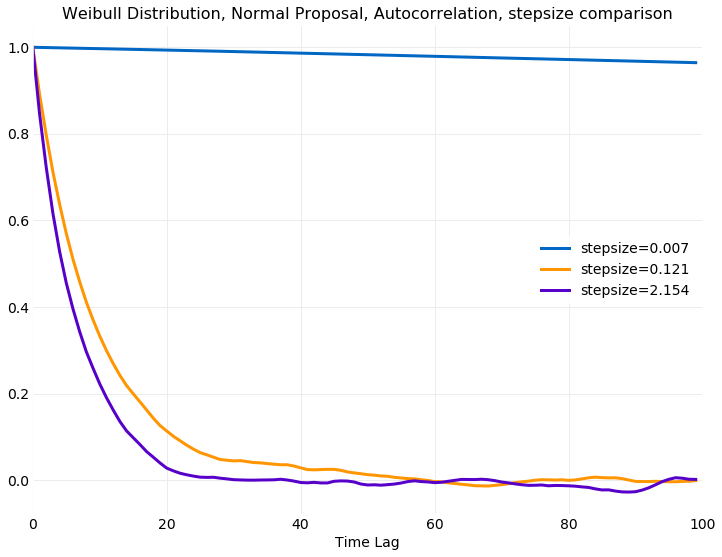
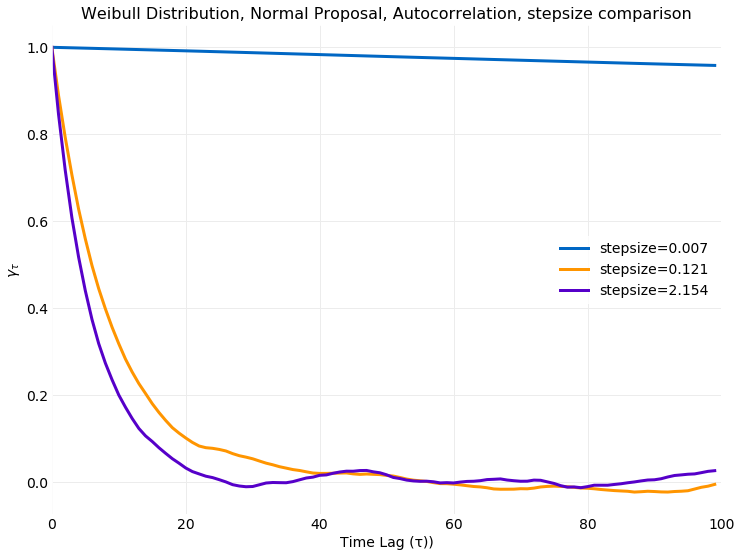
more work on simulation section of MHS

diff --git a/_site/2018/09/05/metropolis_hastings_sampling.html b/_site/2018/09/05/metropolis_hastings_sampling.html
@@ -11,14 +11,14 @@
 <meta property="og:locale" content="en_US" />
 <meta name="description" content="Metropolis Hastings Sampling is a method for obtaining samples for known target probability distribution using samples from some other proposal distribution. It is similar to Rejection Sampling in providing a criteria for acceptance of a proposal sample as a target sample but instead of discarding the samples that do not meet the acceptance criteria the sample from the previous time step is replicated. Another difference is that Metropolis Hastings samples are modeled as a Markov Chain where the target distribution is the Markov Chain Equilibrium Distribution. As a consequence the previous sample is used as part of the acceptance criteria when generating the next sample. It will be seen this has the advantage of permitting dynamical adjustment of some proposal distribution parameters as each sample is generated, which in effect eliminates parameters as model inputs. This is is an improvement over Rejection Sampling, where it was previously shown that slight variations in proposal distribution parameters can significantly impact performance. A downside of the Markov Chain representation is that autocorrelation can develop in the samples which is not the case in Rejection Sampling." />
 <meta property="og:description" content="Metropolis Hastings Sampling is a method for obtaining samples for known target probability distribution using samples from some other proposal distribution. It is similar to Rejection Sampling in providing a criteria for acceptance of a proposal sample as a target sample but instead of discarding the samples that do not meet the acceptance criteria the sample from the previous time step is replicated. Another difference is that Metropolis Hastings samples are modeled as a Markov Chain where the target distribution is the Markov Chain Equilibrium Distribution. As a consequence the previous sample is used as part of the acceptance criteria when generating the next sample. It will be seen this has the advantage of permitting dynamical adjustment of some proposal distribution parameters as each sample is generated, which in effect eliminates parameters as model inputs. This is is an improvement over Rejection Sampling, where it was previously shown that slight variations in proposal distribution parameters can significantly impact performance. A downside of the Markov Chain representation is that autocorrelation can develop in the samples which is not the case in Rejection Sampling." />
-<link rel="canonical" href="http://localhost:4000/2018/09/04/metropolis_hastings_sampling.html" />
-<meta property="og:url" content="http://localhost:4000/2018/09/04/metropolis_hastings_sampling.html" />
+<link rel="canonical" href="http://localhost:4000/2018/09/05/metropolis_hastings_sampling.html" />
+<meta property="og:url" content="http://localhost:4000/2018/09/05/metropolis_hastings_sampling.html" />
 <meta property="og:site_name" content="gly.fish" />
 <meta property="og:image" content="http://localhost:4000/assets/posts/metropolis_hastings_sampling/norma_proposal_acceptance.png" />
 <meta property="og:type" content="article" />
-<meta property="article:published_time" content="2018-09-04T22:29:58-07:00" />
+<meta property="article:published_time" content="2018-09-05T07:52:03-07:00" />
 <script type="application/ld+json">
-{"description":"Metropolis Hastings Sampling is a method for obtaining samples for known target probability distribution using samples from some other proposal distribution. It is similar to Rejection Sampling in providing a criteria for acceptance of a proposal sample as a target sample but instead of discarding the samples that do not meet the acceptance criteria the sample from the previous time step is replicated. Another difference is that Metropolis Hastings samples are modeled as a Markov Chain where the target distribution is the Markov Chain Equilibrium Distribution. As a consequence the previous sample is used as part of the acceptance criteria when generating the next sample. It will be seen this has the advantage of permitting dynamical adjustment of some proposal distribution parameters as each sample is generated, which in effect eliminates parameters as model inputs. This is is an improvement over Rejection Sampling, where it was previously shown that slight variations in proposal distribution parameters can significantly impact performance. A downside of the Markov Chain representation is that autocorrelation can develop in the samples which is not the case in Rejection Sampling.","author":{"@type":"Person","name":"Troy Stribling"},"@type":"BlogPosting","url":"http://localhost:4000/2018/09/04/metropolis_hastings_sampling.html","image":"http://localhost:4000/assets/posts/metropolis_hastings_sampling/norma_proposal_acceptance.png","headline":"Metropolis Hastings Sampling","dateModified":"2018-09-04T22:29:58-07:00","datePublished":"2018-09-04T22:29:58-07:00","mainEntityOfPage":{"@type":"WebPage","@id":"http://localhost:4000/2018/09/04/metropolis_hastings_sampling.html"},"@context":"http://schema.org"}</script>
+{"description":"Metropolis Hastings Sampling is a method for obtaining samples for known target probability distribution using samples from some other proposal distribution. It is similar to Rejection Sampling in providing a criteria for acceptance of a proposal sample as a target sample but instead of discarding the samples that do not meet the acceptance criteria the sample from the previous time step is replicated. Another difference is that Metropolis Hastings samples are modeled as a Markov Chain where the target distribution is the Markov Chain Equilibrium Distribution. As a consequence the previous sample is used as part of the acceptance criteria when generating the next sample. It will be seen this has the advantage of permitting dynamical adjustment of some proposal distribution parameters as each sample is generated, which in effect eliminates parameters as model inputs. This is is an improvement over Rejection Sampling, where it was previously shown that slight variations in proposal distribution parameters can significantly impact performance. A downside of the Markov Chain representation is that autocorrelation can develop in the samples which is not the case in Rejection Sampling.","author":{"@type":"Person","name":"Troy Stribling"},"@type":"BlogPosting","url":"http://localhost:4000/2018/09/05/metropolis_hastings_sampling.html","image":"http://localhost:4000/assets/posts/metropolis_hastings_sampling/norma_proposal_acceptance.png","headline":"Metropolis Hastings Sampling","dateModified":"2018-09-05T07:52:03-07:00","datePublished":"2018-09-05T07:52:03-07:00","mainEntityOfPage":{"@type":"WebPage","@id":"http://localhost:4000/2018/09/05/metropolis_hastings_sampling.html"},"@context":"http://schema.org"}</script>
 <!-- End Jekyll SEO tag -->
 <link rel="stylesheet" href="/assets/main.css">
   <link rel="apple-touch-icon" sizes="180x180" href="/assets/favicon/apple-touch-icon.png">
@@ -134,7 +134,7 @@
   <header class="post-header">
     <h1 class="post-title p-name" itemprop="name headline">Metropolis Hastings Sampling</h1>
     <p class="post-meta">
-      <time class="dt-published" datetime="2018-09-04T22:29:58-07:00" itemprop="datePublished">Sep 4, 2018
+      <time class="dt-published" datetime="2018-09-05T07:52:03-07:00" itemprop="datePublished">Sep 5, 2018
       </time>• <span itemprop="author" itemscope itemtype="http://schema.org/Person">
             <span class="p-author h-card" itemprop="name">Troy Stribling</span>
           </span></p>
@@ -779,14 +779,21 @@ other two simulations. Both are showing convergence after <span class="katex"><s
 <p><img class="post-image" src="/assets/posts/metropolis_hastings_sampling/normal_proposal_mean_convergence_stepsize_comparison.png" /></p>
 
 <p>A consequence of using a Markov Chain to generate samples is that autocorrelation is built into the model.
-This is not desirable in general since independent and identically distributed samples are usually
-desired. It follows that there is a preference rapid decorrelation of samples. The following plot
-shows that autocorrelation coefficient for the three values of <code class="highlighter-rouge">stepsize</code> previously discussed.
-The autocorrelation coefficient of a time series, <span class="katex"><span class="katex-mathml"><math><semantics><mrow><mi>f</mi></mrow><annotation encoding="application/x-tex">f</annotation></semantics></math></span><span class="katex-html" aria-hidden="true"><span class="strut" style="height:0.69444em;"></span><span class="strut bottom" style="height:0.8888799999999999em;vertical-align:-0.19444em;"></span><span class="base"><span class="mord mathit" style="margin-right:0.10764em;">f</span></span></span></span>, is defined by,</p>
+This is considered an undesirable artifact since in general independent and identically distributed samples
+are desired. It follows that there is a preference for rapid decorrelation of samples. The following plot
+shows the autocorrelation coefficient for the three values of <code class="highlighter-rouge">stepsize</code> previously discussed.
+The autocorrelation coefficient of a time series, <span class="katex"><span class="katex-mathml"><math><semantics><mrow><mi>f</mi></mrow><annotation encoding="application/x-tex">f</annotation></semantics></math></span><span class="katex-html" aria-hidden="true"><span class="strut" style="height:0.69444em;"></span><span class="strut bottom" style="height:0.8888799999999999em;vertical-align:-0.19444em;"></span><span class="base"><span class="mord mathit" style="margin-right:0.10764em;">f</span></span></span></span>, provides a measure
+<em>similarity</em> or <em>dependence</em> of the series past and future and is defined by,</p>
 
-<p><span class="katex-display"><span class="katex"><span class="katex-mathml"><math><semantics><mrow><msub><mi>γ</mi><mi>τ</mi></msub><mo>=</mo><mfrac><mrow><mn>1</mn></mrow><mrow><msubsup><mi>σ</mi><mi>f</mi><mn>2</mn></msubsup></mrow></mfrac><munderover><mo>∑</mo><mrow><mi>n</mi><mo>=</mo><mn>0</mn></mrow><mi>t</mi></munderover><mrow><mo fence="true">(</mo><msub><mi>f</mi><mi>n</mi></msub><mo>−</mo><msub><mi>μ</mi><mi>f</mi></msub><mo fence="true">)</mo></mrow><mrow><mo fence="true">(</mo><msub><mi>f</mi><mrow><mi>n</mi><mo>+</mo><mi>τ</mi></mrow></msub><mo>−</mo><msub><mi>μ</mi><mi>f</mi></msub><mo fence="true">)</mo></mrow><mtext> </mtext><mtext> </mtext><mtext> </mtext><mtext> </mtext><mtext> </mtext><mo>(</mo><mn>1</mn><mn>6</mn><mo>)</mo><mo separator="true">,</mo></mrow><annotation encoding="application/x-tex">
-\gamma_{\tau} = \frac{1}{\sigma_{f}^2}\sum_{n=0}^{t} \left(f_{n} - \mu_f \right) \left(f_{n+\tau} - \mu_f\right)\ \ \ \ \ (16),
-</annotation></semantics></math></span><span class="katex-html" aria-hidden="true"><span class="strut" style="height:1.7805610000000003em;"></span><span class="strut bottom" style="height:3.047674em;vertical-align:-1.267113em;"></span><span class="base"><span class="mord"><span class="mord mathit" style="margin-right:0.05556em;">γ</span><span class="msupsub"><span class="vlist-t vlist-t2"><span class="vlist-r"><span class="vlist" style="height:0.151392em;"><span style="top:-2.5500000000000003em;margin-left:-0.05556em;margin-right:0.05em;"><span class="pstrut" style="height:2.7em;"></span><span class="sizing reset-size6 size3 mtight"><span class="mord mtight"><span class="mord mathit mtight" style="margin-right:0.1132em;">τ</span></span></span></span></span><span class="vlist-s"></span></span><span class="vlist-r"><span class="vlist" style="height:0.15em;"></span></span></span></span></span><span class="mrel">=</span><span class="mord"><span class="mopen nulldelimiter"></span><span class="mfrac"><span class="vlist-t vlist-t2"><span class="vlist-r"><span class="vlist" style="height:1.32144em;"><span style="top:-2.314em;"><span class="pstrut" style="height:3em;"></span><span class="mord"><span class="mord"><span class="mord mathit" style="margin-right:0.03588em;">σ</span><span class="msupsub"><span class="vlist-t vlist-t2"><span class="vlist-r"><span class="vlist" style="height:0.795908em;"><span style="top:-2.3986920000000005em;margin-left:-0.03588em;margin-right:0.05em;"><span class="pstrut" style="height:2.7em;"></span><span class="sizing reset-size6 size3 mtight"><span class="mord mtight"><span class="mord mathit mtight" style="margin-right:0.10764em;">f</span></span></span></span><span style="top:-3.0448000000000004em;margin-right:0.05em;"><span class="pstrut" style="height:2.7em;"></span><span class="sizing reset-size6 size3 mtight"><span class="mord mathrm mtight">2</span></span></span></span><span class="vlist-s"></span></span><span class="vlist-r"><span class="vlist" style="height:0.4374159999999999em;"></span></span></span></span></span></span></span><span style="top:-3.23em;"><span class="pstrut" style="height:3em;"></span><span class="frac-line" style="border-bottom-width:0.04em;"></span></span><span style="top:-3.677em;"><span class="pstrut" style="height:3em;"></span><span class="mord"><span class="mord mathrm">1</span></span></span></span><span class="vlist-s"></span></span><span class="vlist-r"><span class="vlist" style="height:1.123416em;"></span></span></span></span><span class="mclose nulldelimiter"></span></span><span class="mop op-limits"><span class="vlist-t vlist-t2"><span class="vlist-r"><span class="vlist" style="height:1.7805610000000003em;"><span style="top:-1.882887em;margin-left:0em;"><span class="pstrut" style="height:3.05em;"></span><span class="sizing reset-size6 size3 mtight"><span class="mord mtight"><span class="mord mathit mtight">n</span><span class="mrel mtight">=</span><span class="mord mathrm mtight">0</span></span></span></span><span style="top:-3.050005em;"><span class="pstrut" style="height:3.05em;"></span><span><span class="mop op-symbol large-op">∑</span></span></span><span style="top:-4.3000050000000005em;margin-left:0em;"><span class="pstrut" style="height:3.05em;"></span><span class="sizing reset-size6 size3 mtight"><span class="mord mtight"><span class="mord mathit mtight">t</span></span></span></span></span><span class="vlist-s"></span></span><span class="vlist-r"><span class="vlist" style="height:1.267113em;"></span></span></span></span><span class="minner"><span class="mopen delimcenter" style="top:0em;">(</span><span class="mord"><span class="mord mathit" style="margin-right:0.10764em;">f</span><span class="msupsub"><span class="vlist-t vlist-t2"><span class="vlist-r"><span class="vlist" style="height:0.151392em;"><span style="top:-2.5500000000000003em;margin-left:-0.10764em;margin-right:0.05em;"><span class="pstrut" style="height:2.7em;"></span><span class="sizing reset-size6 size3 mtight"><span class="mord mtight"><span class="mord mathit mtight">n</span></span></span></span></span><span class="vlist-s"></span></span><span class="vlist-r"><span class="vlist" style="height:0.15em;"></span></span></span></span></span><span class="mbin">−</span><span class="mord"><span class="mord mathit">μ</span><span class="msupsub"><span class="vlist-t vlist-t2"><span class="vlist-r"><span class="vlist" style="height:0.3361079999999999em;"><span style="top:-2.5500000000000003em;margin-left:0em;margin-right:0.05em;"><span class="pstrut" style="height:2.7em;"></span><span class="sizing reset-size6 size3 mtight"><span class="mord mathit mtight" style="margin-right:0.10764em;">f</span></span></span></span><span class="vlist-s"></span></span><span class="vlist-r"><span class="vlist" style="height:0.286108em;"></span></span></span></span></span><span class="mclose delimcenter" style="top:0em;">)</span></span><span class="minner"><span class="mopen delimcenter" style="top:0em;">(</span><span class="mord"><span class="mord mathit" style="margin-right:0.10764em;">f</span><span class="msupsub"><span class="vlist-t vlist-t2"><span class="vlist-r"><span class="vlist" style="height:0.25833100000000003em;"><span style="top:-2.5500000000000003em;margin-left:-0.10764em;margin-right:0.05em;"><span class="pstrut" style="height:2.7em;"></span><span class="sizing reset-size6 size3 mtight"><span class="mord mtight"><span class="mord mathit mtight">n</span><span class="mbin mtight">+</span><span class="mord mathit mtight" style="margin-right:0.1132em;">τ</span></span></span></span></span><span class="vlist-s"></span></span><span class="vlist-r"><span class="vlist" style="height:0.208331em;"></span></span></span></span></span><span class="mbin">−</span><span class="mord"><span class="mord mathit">μ</span><span class="msupsub"><span class="vlist-t vlist-t2"><span class="vlist-r"><span class="vlist" style="height:0.3361079999999999em;"><span style="top:-2.5500000000000003em;margin-left:0em;margin-right:0.05em;"><span class="pstrut" style="height:2.7em;"></span><span class="sizing reset-size6 size3 mtight"><span class="mord mathit mtight" style="margin-right:0.10764em;">f</span></span></span></span><span class="vlist-s"></span></span><span class="vlist-r"><span class="vlist" style="height:0.286108em;"></span></span></span></span></span><span class="mclose delimcenter" style="top:0em;">)</span></span><span class="mopen"><span class="mspace"> </span><span class="mspace"> </span><span class="mspace"> </span><span class="mspace"> </span><span class="mspace"> </span><span class="mopen">(</span></span><span class="mord mathrm">1</span><span class="mord mathrm">6</span><span class="mclose">)</span><span class="mpunct">,</span></span></span></span></span></p>
+<p><span class="katex-display"><span class="katex"><span class="katex-mathml"><math><semantics><mrow><msub><mi>γ</mi><mi>τ</mi></msub><mo>=</mo><mfrac><mrow><mn>1</mn></mrow><mrow><msubsup><mi>σ</mi><mi>f</mi><mn>2</mn></msubsup></mrow></mfrac><munderover><mo>∑</mo><mrow><mi>n</mi><mo>=</mo><mn>0</mn></mrow><mi>t</mi></munderover><mrow><mo fence="true">(</mo><msub><mi>f</mi><mi>n</mi></msub><mo>−</mo><msub><mi>μ</mi><mi>f</mi></msub><mo fence="true">)</mo></mrow><mrow><mo fence="true">(</mo><msub><mi>f</mi><mrow><mi>n</mi><mo>+</mo><mi>τ</mi></mrow></msub><mo>−</mo><msub><mi>μ</mi><mi>f</mi></msub><mo fence="true">)</mo></mrow><mo separator="true">,</mo></mrow><annotation encoding="application/x-tex">
+\gamma_{\tau} = \frac{1}{\sigma_{f}^2}\sum_{n=0}^{t} \left(f_{n} - \mu_f \right) \left(f_{n+\tau} - \mu_f\right),
+</annotation></semantics></math></span><span class="katex-html" aria-hidden="true"><span class="strut" style="height:1.7805610000000003em;"></span><span class="strut bottom" style="height:3.047674em;vertical-align:-1.267113em;"></span><span class="base"><span class="mord"><span class="mord mathit" style="margin-right:0.05556em;">γ</span><span class="msupsub"><span class="vlist-t vlist-t2"><span class="vlist-r"><span class="vlist" style="height:0.151392em;"><span style="top:-2.5500000000000003em;margin-left:-0.05556em;margin-right:0.05em;"><span class="pstrut" style="height:2.7em;"></span><span class="sizing reset-size6 size3 mtight"><span class="mord mtight"><span class="mord mathit mtight" style="margin-right:0.1132em;">τ</span></span></span></span></span><span class="vlist-s"></span></span><span class="vlist-r"><span class="vlist" style="height:0.15em;"></span></span></span></span></span><span class="mrel">=</span><span class="mord"><span class="mopen nulldelimiter"></span><span class="mfrac"><span class="vlist-t vlist-t2"><span class="vlist-r"><span class="vlist" style="height:1.32144em;"><span style="top:-2.314em;"><span class="pstrut" style="height:3em;"></span><span class="mord"><span class="mord"><span class="mord mathit" style="margin-right:0.03588em;">σ</span><span class="msupsub"><span class="vlist-t vlist-t2"><span class="vlist-r"><span class="vlist" style="height:0.795908em;"><span style="top:-2.3986920000000005em;margin-left:-0.03588em;margin-right:0.05em;"><span class="pstrut" style="height:2.7em;"></span><span class="sizing reset-size6 size3 mtight"><span class="mord mtight"><span class="mord mathit mtight" style="margin-right:0.10764em;">f</span></span></span></span><span style="top:-3.0448000000000004em;margin-right:0.05em;"><span class="pstrut" style="height:2.7em;"></span><span class="sizing reset-size6 size3 mtight"><span class="mord mathrm mtight">2</span></span></span></span><span class="vlist-s"></span></span><span class="vlist-r"><span class="vlist" style="height:0.4374159999999999em;"></span></span></span></span></span></span></span><span style="top:-3.23em;"><span class="pstrut" style="height:3em;"></span><span class="frac-line" style="border-bottom-width:0.04em;"></span></span><span style="top:-3.677em;"><span class="pstrut" style="height:3em;"></span><span class="mord"><span class="mord mathrm">1</span></span></span></span><span class="vlist-s"></span></span><span class="vlist-r"><span class="vlist" style="height:1.123416em;"></span></span></span></span><span class="mclose nulldelimiter"></span></span><span class="mop op-limits"><span class="vlist-t vlist-t2"><span class="vlist-r"><span class="vlist" style="height:1.7805610000000003em;"><span style="top:-1.882887em;margin-left:0em;"><span class="pstrut" style="height:3.05em;"></span><span class="sizing reset-size6 size3 mtight"><span class="mord mtight"><span class="mord mathit mtight">n</span><span class="mrel mtight">=</span><span class="mord mathrm mtight">0</span></span></span></span><span style="top:-3.050005em;"><span class="pstrut" style="height:3.05em;"></span><span><span class="mop op-symbol large-op">∑</span></span></span><span style="top:-4.3000050000000005em;margin-left:0em;"><span class="pstrut" style="height:3.05em;"></span><span class="sizing reset-size6 size3 mtight"><span class="mord mtight"><span class="mord mathit mtight">t</span></span></span></span></span><span class="vlist-s"></span></span><span class="vlist-r"><span class="vlist" style="height:1.267113em;"></span></span></span></span><span class="minner"><span class="mopen delimcenter" style="top:0em;">(</span><span class="mord"><span class="mord mathit" style="margin-right:0.10764em;">f</span><span class="msupsub"><span class="vlist-t vlist-t2"><span class="vlist-r"><span class="vlist" style="height:0.151392em;"><span style="top:-2.5500000000000003em;margin-left:-0.10764em;margin-right:0.05em;"><span class="pstrut" style="height:2.7em;"></span><span class="sizing reset-size6 size3 mtight"><span class="mord mtight"><span class="mord mathit mtight">n</span></span></span></span></span><span class="vlist-s"></span></span><span class="vlist-r"><span class="vlist" style="height:0.15em;"></span></span></span></span></span><span class="mbin">−</span><span class="mord"><span class="mord mathit">μ</span><span class="msupsub"><span class="vlist-t vlist-t2"><span class="vlist-r"><span class="vlist" style="height:0.3361079999999999em;"><span style="top:-2.5500000000000003em;margin-left:0em;margin-right:0.05em;"><span class="pstrut" style="height:2.7em;"></span><span class="sizing reset-size6 size3 mtight"><span class="mord mathit mtight" style="margin-right:0.10764em;">f</span></span></span></span><span class="vlist-s"></span></span><span class="vlist-r"><span class="vlist" style="height:0.286108em;"></span></span></span></span></span><span class="mclose delimcenter" style="top:0em;">)</span></span><span class="minner"><span class="mopen delimcenter" style="top:0em;">(</span><span class="mord"><span class="mord mathit" style="margin-right:0.10764em;">f</span><span class="msupsub"><span class="vlist-t vlist-t2"><span class="vlist-r"><span class="vlist" style="height:0.25833100000000003em;"><span style="top:-2.5500000000000003em;margin-left:-0.10764em;margin-right:0.05em;"><span class="pstrut" style="height:2.7em;"></span><span class="sizing reset-size6 size3 mtight"><span class="mord mtight"><span class="mord mathit mtight">n</span><span class="mbin mtight">+</span><span class="mord mathit mtight" style="margin-right:0.1132em;">τ</span></span></span></span></span><span class="vlist-s"></span></span><span class="vlist-r"><span class="vlist" style="height:0.208331em;"></span></span></span></span></span><span class="mbin">−</span><span class="mord"><span class="mord mathit">μ</span><span class="msupsub"><span class="vlist-t vlist-t2"><span class="vlist-r"><span class="vlist" style="height:0.3361079999999999em;"><span style="top:-2.5500000000000003em;margin-left:0em;margin-right:0.05em;"><span class="pstrut" style="height:2.7em;"></span><span class="sizing reset-size6 size3 mtight"><span class="mord mathit mtight" style="margin-right:0.10764em;">f</span></span></span></span><span class="vlist-s"></span></span><span class="vlist-r"><span class="vlist" style="height:0.286108em;"></span></span></span></span></span><span class="mclose delimcenter" style="top:0em;">)</span></span><span class="mpunct">,</span></span></span></span></span></p>
+
+<p>where <span class="katex"><span class="katex-mathml"><math><semantics><mrow><msub><mi>μ</mi><mi>f</mi></msub></mrow><annotation encoding="application/x-tex">\mu_{f}</annotation></semantics></math></span><span class="katex-html" aria-hidden="true"><span class="strut" style="height:0.43056em;"></span><span class="strut bottom" style="height:0.716668em;vertical-align:-0.286108em;"></span><span class="base"><span class="mord"><span class="mord mathit">μ</span><span class="msupsub"><span class="vlist-t vlist-t2"><span class="vlist-r"><span class="vlist" style="height:0.3361079999999999em;"><span style="top:-2.5500000000000003em;margin-left:0em;margin-right:0.05em;"><span class="pstrut" style="height:2.7em;"></span><span class="sizing reset-size6 size3 mtight"><span class="mord mtight"><span class="mord mathit mtight" style="margin-right:0.10764em;">f</span></span></span></span></span><span class="vlist-s"></span></span><span class="vlist-r"><span class="vlist" style="height:0.286108em;"></span></span></span></span></span></span></span></span> and <span class="katex"><span class="katex-mathml"><math><semantics><mrow><msub><mi>σ</mi><mi>f</mi></msub></mrow><annotation encoding="application/x-tex">\sigma_{f}</annotation></semantics></math></span><span class="katex-html" aria-hidden="true"><span class="strut" style="height:0.43056em;"></span><span class="strut bottom" style="height:0.716668em;vertical-align:-0.286108em;"></span><span class="base"><span class="mord"><span class="mord mathit" style="margin-right:0.03588em;">σ</span><span class="msupsub"><span class="vlist-t vlist-t2"><span class="vlist-r"><span class="vlist" style="height:0.3361079999999999em;"><span style="top:-2.5500000000000003em;margin-left:-0.03588em;margin-right:0.05em;"><span class="pstrut" style="height:2.7em;"></span><span class="sizing reset-size6 size3 mtight"><span class="mord mtight"><span class="mord mathit mtight" style="margin-right:0.10764em;">f</span></span></span></span></span><span class="vlist-s"></span></span><span class="vlist-r"><span class="vlist" style="height:0.286108em;"></span></span></span></span></span></span></span></span> are the time series mean and
+standard deviation respectively. Calculation of autocorrelation was discussed in a
+<a href="/2018/08/25/discrete_cross_correlation_theorem.html">previous post</a>.
+The small <code class="highlighter-rouge">stepsize</code> simulation has a very slowly decaying autocorrelation. For time lags of up to 100
+steps it has decayed by only a few precent. This behavior is expected since</p>
 
 <p><img class="post-image" src="/assets/posts/metropolis_hastings_sampling/normal_proposal_autocorrelation_convergence_stepsize_comparison.png" /></p>
 
@@ -814,7 +821,7 @@ The autocorrelation coefficient of a time series, <span class="katex"><span clas
 
 <h2 id="conclusions">Conclusions</h2>
 
-  </div><a class="u-url" href="/2018/09/04/metropolis_hastings_sampling.html" hidden></a>
+  </div><a class="u-url" href="/2018/09/05/metropolis_hastings_sampling.html" hidden></a>
 </article>
 
       </div>

diff --git a/_site/index.html b/_site/index.html
@@ -132,7 +132,7 @@
         Metropolis Hastings Sampling
       </h1>
       <p class="post-meta">
-        <time class="dt-published" datetime="" itemprop="datePublished">Sep 4, 2018
+        <time class="dt-published" datetime="" itemprop="datePublished">Sep 5, 2018
         </time>• <span itemprop="author" itemscope itemtype="http://schema.org/Person">
               <span class="p-author h-card" itemprop="name">Troy Stribling</span>
             </span></p>
@@ -152,7 +152,7 @@ slight variations in proposal distribution parameters can significantly impact p
 A downside of the Markov Chain representation is that
 <a href="/2018/08/25/discrete_cross_correlation_theorem.html">autocorrelation</a> can develop in the samples
 which is not the case in Rejection Sampl...
-      <a href="/2018/09/04/metropolis_hastings_sampling.html">read more</a>
+      <a href="/2018/09/05/metropolis_hastings_sampling.html">read more</a>
     </li>
     <li><h1 class="post-title p-name" >
         Discrete Cross Correlation Theorem

diff --git a/_site/archive/index.html b/_site/archive/index.html
@@ -125,9 +125,9 @@
       <div class="wrapper">
         <div class="home">
 <h2 class="archive-list-heading">Posts</h2>
-    <ul class="archive-list"><li><span class="post-meta">Sep 4, 2018</span>
+    <ul class="archive-list"><li><span class="post-meta">Sep 5, 2018</span>
         <h3>
-          <a class="post-link" href="/2018/09/04/metropolis_hastings_sampling.html">
+          <a class="post-link" href="/2018/09/05/metropolis_hastings_sampling.html">
             Metropolis Hastings Sampling
           </a>
         </h3></li><li><span class="post-meta">Aug 25, 2018</span>

diff --git a/_drafts/metropolis_hastings_sampling.md b/_drafts/metropolis_hastings_sampling.md
@@ -618,18 +618,23 @@ other two simulations. Both are showing convergence after {% katex %}O(10^4){% e
 <img class="post-image" src="/assets/posts/metropolis_hastings_sampling/normal_proposal_mean_convergence_stepsize_comparison.png">
 
 A consequence of using a Markov Chain to generate samples is that autocorrelation is built into the model.
-This is not desirable in general since independent and identically distributed samples are usually
-desired. It follows that there is a preference rapid decorrelation of samples. The following plot
-shows that autocorrelation coefficient for the three values of `stepsize` previously discussed.
-The autocorrelation coefficient of a time series, {% katex %}f{% endkatex %}, is defined by,
+This is considered an undesirable artifact since in general independent and identically distributed samples
+are desired. It follows that there is a preference for rapid decorrelation of samples. The following plot
+shows the autocorrelation coefficient for the three values of `stepsize` previously discussed.
+The autocorrelation coefficient of a time series, {% katex %}f{% endkatex %}, provides a measure
+*similarity* or *dependence* of the series past and future and is defined by,
 
 {% katex display %}
-\gamma_{\tau} = \frac{1}{\sigma_{f}^2}\sum_{n=0}^{t} \left(f_{n} - \mu_f \right) \left(f_{n+\tau} - \mu_f\right)\ \ \ \ \ (16),
+\gamma_{\tau} = \frac{1}{\sigma_{f}^2}\sum_{n=0}^{t} \left(f_{n} - \mu_f \right) \left(f_{n+\tau} - \mu_f\right),
 {% endkatex %}
 
 where {% katex %}\mu_{f}{% endkatex %} and {% katex %}\sigma_{f}{% endkatex %} are the time series mean and
 standard deviation respectively. Calculation of autocorrelation was discussed in a
 [previous post]({{ site.baseurl }}{% link _posts/2018-08-25-discrete_cross_correlation_theorem.md %}).
+The small `stepsize` simulation has a very slowly decaying autocorrelation. For time lags of up to 100
+steps it has decayed by only a few precent. This behavior is expected since for small
+`stepsize` the resulting samples have the proposal distribution Markov Chain, with stochastic
+kernel shown in equation {% katex %}(15){% endkatex %} and has {% katex %}\gamma_{\tau}=1{% endkatex %}.
 
 <img class="post-image" src="/assets/posts/metropolis_hastings_sampling/normal_proposal_autocorrelation_convergence_stepsize_comparison.png">
 
